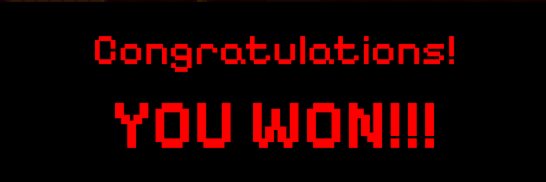
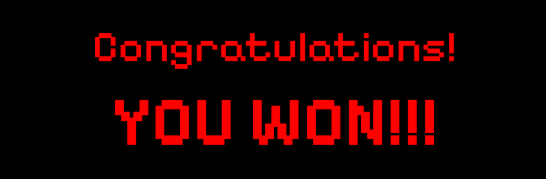
Add files via upload

diff --git a/GameCanvas.java b/GameCanvas.java
@@ -123,6 +123,10 @@ public class GameCanvas extends JComponent {
         }
 
         if (playerNumber.equals("Player 2")) {
+            // Source: Oracle, Java SE 7 API Documentation – java.awt.Shape
+            // URL: https://docs.oracle.com/javase/7/docs/api/java/awt/Shape.html
+            // Accessed: May 16, 2025
+            // Note: Used as reference for collisions/overlaps
             if (playerBounds.intersects(doorBounds)) {
                 gameStat.nextLevel();
                 int newLevel = gameStat.getLevel();
@@ -310,6 +314,10 @@ public class GameCanvas extends JComponent {
         int xOffset = (player.getWidth() - newWidth) / 2;
         nextPlayerBounds = new Rectangle(player.getX() + xOffset, player.getY() + 45, newWidth, 45);
         for (Shape x : room.getObjectBounds()) {
+            // Source: Oracle, Java SE 7 API Documentation – java.awt.Shape
+            // URL: https://docs.oracle.com/javase/7/docs/api/java/awt/Shape.html
+            // Accessed: May 16, 2025
+            // Note: Used as reference for collisions/overlaps
             if (x.intersects(nextPlayerBounds)) {
                 return false;
             }
@@ -325,6 +333,10 @@ public class GameCanvas extends JComponent {
         int xOffset = (player.getWidth() - newWidth) / 2;
         nextPlayerBounds = new Rectangle(player.getX() + xOffset, player.getY() + 65, newWidth, 45);
         for (Shape x : room.getObjectBounds()) {
+            // Source: Oracle, Java SE 7 API Documentation – java.awt.Shape
+            // URL: https://docs.oracle.com/javase/7/docs/api/java/awt/Shape.html
+            // Accessed: May 16, 2025
+            // Note: Used as reference for collisions/overlaps
             if (x.intersects(nextPlayerBounds)) {
                 return false;
             }
@@ -340,6 +352,10 @@ public class GameCanvas extends JComponent {
         int xOffset = (player.getWidth() - newWidth) / 2;
         nextPlayerBounds = new Rectangle(player.getX() - 10 + xOffset, player.getY() + 55, newWidth, 45);
         for (Shape x : room.getObjectBounds()) {
+            // Source: Oracle, Java SE 7 API Documentation – java.awt.Shape
+            // URL: https://docs.oracle.com/javase/7/docs/api/java/awt/Shape.html
+            // Accessed: May 16, 2025
+            // Note: Used as reference for collisions/overlaps
             if (x.intersects(nextPlayerBounds)) {
                 return false;
             }
@@ -355,6 +371,10 @@ public class GameCanvas extends JComponent {
         int xOffset = (player.getWidth() - newWidth) / 2;
         nextPlayerBounds = new Rectangle(player.getX() + 10 + xOffset, player.getY() + 55, newWidth, 45);
         for (Shape x : room.getObjectBounds()) {
+            // Source: Oracle, Java SE 7 API Documentation – java.awt.Shape
+            // URL: https://docs.oracle.com/javase/7/docs/api/java/awt/Shape.html
+            // Accessed: May 16, 2025
+            // Note: Used as reference for collisions/overlaps
             if (x.intersects(nextPlayerBounds)) {
                 return false;
             }
@@ -386,6 +406,10 @@ public class GameCanvas extends JComponent {
         }
 
         for (Shape obj : room.getOthrObjBounds()) {
+            // Source: Oracle, Java SE 7 API Documentation – java.awt.Shape
+            // URL: https://docs.oracle.com/javase/7/docs/api/java/awt/Shape.html
+            // Accessed: May 16, 2025
+            // Note: Used as reference for collisions/overlaps
             if (obj.intersects(nextPlayerBounds)) {
                 clueBoundsIndex = room.getOthrObjBounds().indexOf(obj);
                 return true;
@@ -484,7 +508,15 @@ public class GameCanvas extends JComponent {
      * sets up mouse listener for the start button
      */
     private void setUpStartMouseClicked() {
+        // Source: Oracle, Java SE 8 API Documentation – java.awt.event.MouseAdapter#mouseClicked
+        // URL: https://docs.oracle.com/javase/8/docs/api/java/awt/event/MouseAdapter.html#mouseClicked-java.awt.event.MouseEvent-
+        // Accessed: May 16, 2025
+        // Note: Used as reference for detecting mouse click
         MouseAdapter ma = new MouseAdapter() {
+            // Source: Oracle, Java SE 7 API Documentation – java.awt.event.MouseEvent
+            // URL: https://docs.oracle.com/javase/7/docs/api/java/awt/event/MouseEvent.html
+            // Accessed: May 16, 2025
+            // Note: Used as a reference for mouse event handling methods
             @Override
             public void mouseClicked(MouseEvent e) {
                 if (gameStarted || startButtonClicked) return;
@@ -737,10 +769,14 @@ public class GameCanvas extends JComponent {
             ta.attack.drawAttack(g2d);
             if (gameStat.getLevel() == 3 && bossRoomEntered && !bossDefeated) {
                 Ellipse2D.Double bossHitbox = monster.getMonsterHitbox();
+                // Source: Oracle, Java SE 7 API Documentation – java.awt.Shape
+                // URL: https://docs.oracle.com/javase/7/docs/api/java/awt/Shape.html
+                // Accessed: May 16, 2025
+                // Note: Used as reference for collisions/overlaps
                 if (ta.attack.getAttackHitbox().getBounds2D().intersects(bossHitbox.getBounds2D())) {
                     ta.timer.stop();
                     activeAttacks.remove(ta);
-                    bossHp -= 2;
+                    bossHp -= 0.25;
                     monster.updateHealth(bossHp);
                     if (bossHp <= 0) {
                         bossDefeated = true;
@@ -766,6 +802,10 @@ public class GameCanvas extends JComponent {
 			// Note: Used to know how to make a timer only run once (setRepeats(false)).
             if (playerLife.getLifeCount() > 0 && canTakeDamage) {
                 for (Shape attack : monster.getMonsterAttackHitbox()) {
+                    // Source: Oracle, Java SE 7 API Documentation – java.awt.Shape
+                    // URL: https://docs.oracle.com/javase/7/docs/api/java/awt/Shape.html
+                    // Accessed: May 16, 2025
+                    // Note: Used as reference for collisions/overlaps
                     if (attack != null && playerBounds.intersects(attack.getBounds2D())) {
                         playerLife.lossLife();
 

diff --git a/GameStarter.java b/GameStarter.java
@@ -37,10 +37,10 @@ public class GameStarter {
         try{
             System.out.print("Please input the server's IP Address: ");
             String ipAdress = playerInput.nextLine();
-            System.out.print("Please input the port number: ");
-            int portNum = Integer.parseInt(playerInput.nextLine());
+            // System.out.print("Please input the port number: ");
+            // int portNum = Integer.parseInt(playerInput.nextLine());
             System.out.println("ATTEMPTING TO CONNECT TO SERVER...");
-            pSocket = new Socket(ipAdress, portNum);
+            pSocket = new Socket(ipAdress, 9145);
             System.out.println("CONNECTION SUCCESSFUL!");
             dataIn = new DataInputStream(pSocket.getInputStream());
             dataOut = new DataOutputStream(pSocket.getOutputStream());

diff --git a/GameServer.java b/GameServer.java
@@ -101,8 +101,8 @@ public class GameServer {
          */
 		public void run() {
 			try {
-				dataOut1.writeUTF("HELLO! WELCOME TO [GAME NAME]! You are Player 1");
-				dataOut2.writeUTF("HELLO! WELCOME TO [GAME NAME]! You are Player 2");
+				dataOut1.writeUTF("HELLO! WELCOME TO THE WIZARD'S ESCAPE! You are Player 1");
+				dataOut2.writeUTF("HELLO! WELCOME TO THE WIZARD'S ESCAPE! You are Player 2");
 				dataOut1.writeUTF("Player 1");
 				dataOut2.writeUTF("Player 2");
 				System.out.println("2 players are in this game session.");

diff --git a/GameFrame.java b/GameFrame.java
@@ -31,7 +31,7 @@ public class GameFrame {
         frame = new JFrame();
         gc = new GameCanvas(playerNumber);
         gc.setPreferredSize(new Dimension(w, h));
-        frame.setTitle("Game Title");
+        frame.setTitle("The Wizard's Escape");
         frame.add(gc);
         frame.pack();
         frame.setDefaultCloseOperation(JFrame.EXIT_ON_CLOSE);

diff --git a/GameOver.java b/GameOver.java
@@ -25,7 +25,7 @@ public class GameOver{
      * This Constructor initializes the color and image that make up the game over screen.
      */
     public GameOver(){
-        bgColor = new Color(0,0,0,191);
+        bgColor = Color.BLACK;
         gameOver = new ImageIcon("GameOver/gameOver.png").getImage();
     }
 

diff --git a/GameWon.java b/GameWon.java
@@ -25,7 +25,7 @@ public class GameWon{
      * This Constructor initializes the color and image that make up the game won screen.
      */
     public GameWon(){
-        bgColor = new Color(0,0,0,191);
+        bgColor = Color.BLACK;
         gameOver = new ImageIcon("GameWon/gameWon.png").getImage();
     }
 
